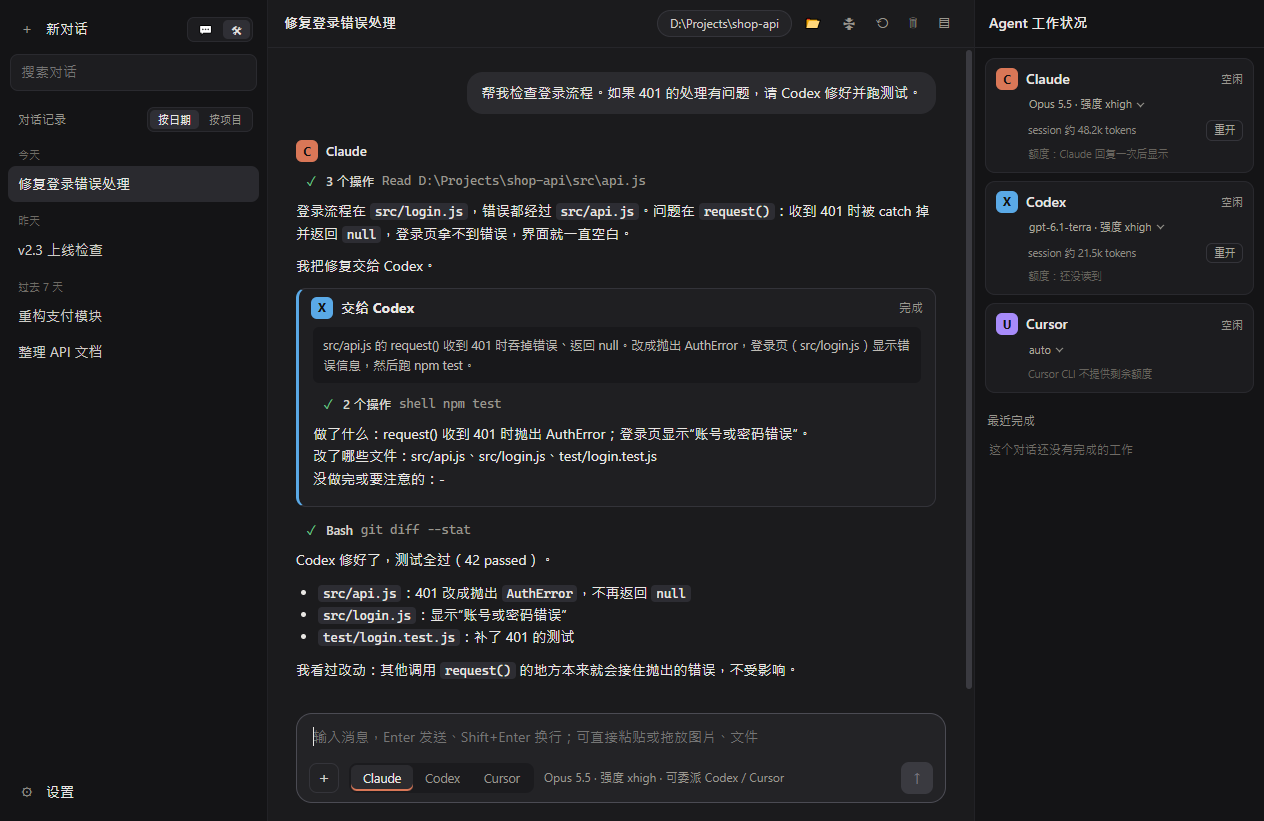
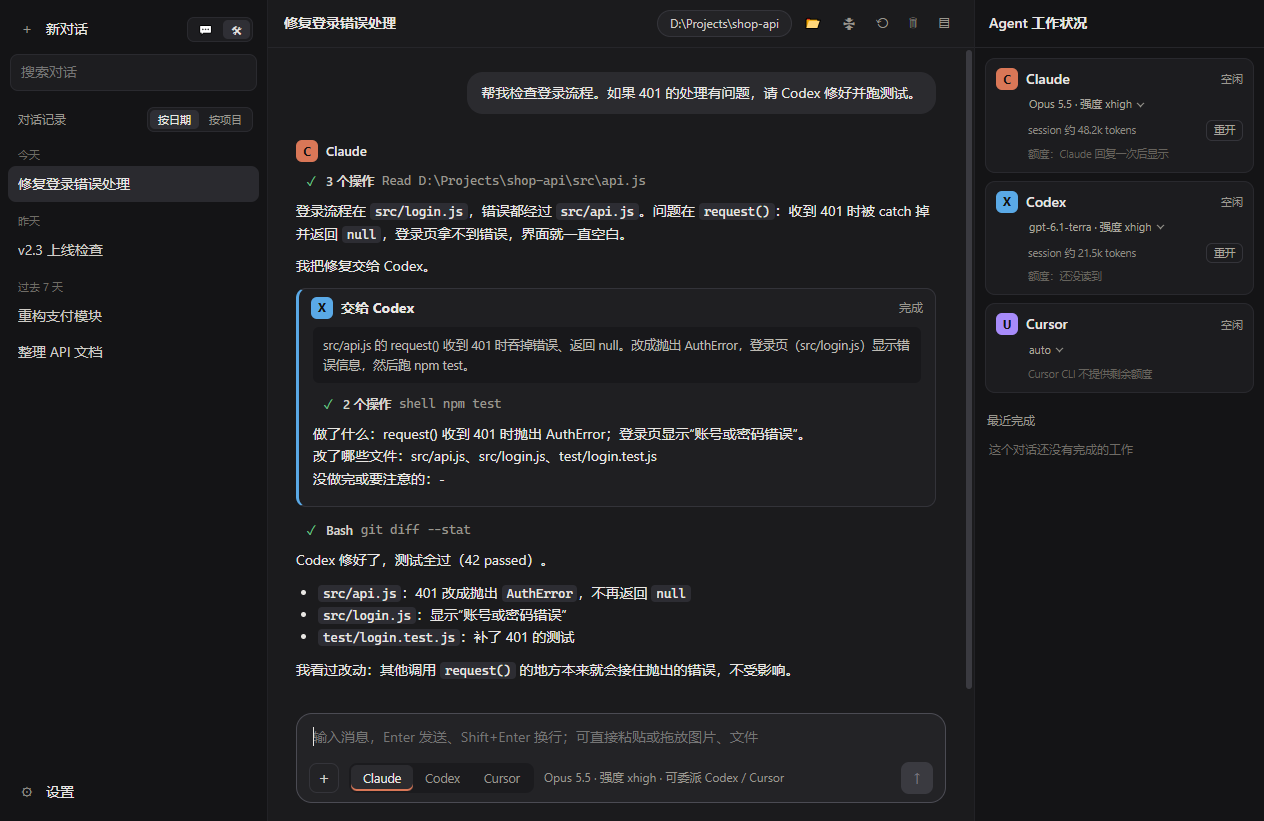
README: add delegation demo GIF; use a Simplified Chinese font for zh-CN UI
- README example section shows a staged, sped-up GIF of Claude handing
  a fix to Codex (en / zh-TW / zh-CN, about 0.5 MB each)
- Simplified Chinese UI now uses Microsoft YaHei UI; JhengHei drew
  characters such as 输 and 额 with Traditional glyph shapes
- Reshot overview-zh-CN.png

diff --git a/src/renderer/style.css b/src/renderer/style.css
@@ -6,6 +6,8 @@
   --font: "Segoe UI", "Microsoft JhengHei UI", "PingFang TC", system-ui, sans-serif;
   --mono: "Cascadia Code", Consolas, "Courier New", monospace;
 }
+/* 簡中介面改用簡體字型：JhengHei 會把「输」「额」這類字畫成繁體字形（html lang 由 app.js 的 translateDom 設定） */
+:root:lang(zh-Hans) { --font: "Segoe UI", "Microsoft YaHei UI", "PingFang SC", system-ui, sans-serif; }
 * { box-sizing: border-box; }
 html, body { height: 100%; margin: 0; }
 body { display: flex; background: var(--bg); color: var(--text); font: 14px/1.6 var(--font); overflow: hidden; }

diff --git a/README.md b/README.md
@@ -41,6 +41,9 @@ You can also download **Source code (zip)** from [Releases](https://github.com/s
 
 This is the chat in the screenshot above.
 
+<p align="center"><img src="assets/readme/delegate-en.gif" width="800" alt="Animation: you ask Claude to check the login flow, Claude reads three files, hands the fix to Codex, the Codex card shows the edit and npm test, and Claude reports back while the right panel shows both agents working"></p>
+<p align="center"><sub>Staged demo in the real app, sped up. A real delegation usually takes a few minutes.</sub></p>
+
 1. In work mode you ask Claude: "Check the login flow. If the 401 handling is wrong, have Codex fix it and run the tests."
 2. Claude reads the code, finds that `request()` swallows 401 responses, and delegates the fix to Codex.
 3. The Codex card shows its edits and the test run as they happen. Codex ends with what it did, which files changed, and what is unfinished.

diff --git a/README.zh-CN.md b/README.zh-CN.md
@@ -41,6 +41,9 @@ git clone https://github.com/satan0124/AgentDesk.git
 
 就是上面截图里的对话。
 
+<p align="center"><img src="assets/readme/delegate-zh-CN.gif" width="800" alt="动画：请 Claude 检查登录流程，Claude 读了三个文件后把修复交给 Codex，Codex 的卡片显示改文件与 npm test，最后 Claude 汇报；右栏同时显示两个 Agent 工作中"></p>
+<p align="center"><sub>在真实程序里摆拍的演示，速度加快了。实际委派通常要几分钟。</sub></p>
+
 1. 在工作模式下问 Claude：“帮我检查登录流程。如果 401 的处理有问题，请 Codex 修好并跑测试。”
 2. Claude 读过代码，发现 `request()` 把 401 吞掉了，把修复交给 Codex。
 3. Codex 的卡片实时显示它的修改和测试，最后写出做了什么、改了哪些文件、还有什么没做完。

diff --git a/README.zh-TW.md b/README.zh-TW.md
@@ -41,6 +41,9 @@ git clone https://github.com/satan0124/AgentDesk.git
 
 就是上面截圖裡的對話。
 
+<p align="center"><img src="assets/readme/delegate-zh-TW.gif" width="800" alt="動畫：請 Claude 檢查登入流程，Claude 讀了三個檔後把修正交給 Codex，Codex 的卡片顯示改檔與 npm test，最後 Claude 回報；右欄同時顯示兩個 Agent 工作中"></p>
+<p align="center"><sub>在真的程式裡擺拍的示範，速度加快了。實際委派通常要幾分鐘。</sub></p>
+
 1. 在工作模式下問 Claude：「幫我檢查登入流程。如果 401 的處理有問題，請 Codex 修好並跑測試。」
 2. Claude 讀過程式，發現 `request()` 把 401 吞掉了，把修正交給 Codex。
 3. Codex 的卡片即時顯示它的修改和測試，最後寫出做了什麼、改了哪些檔、還有什麼沒做完。
